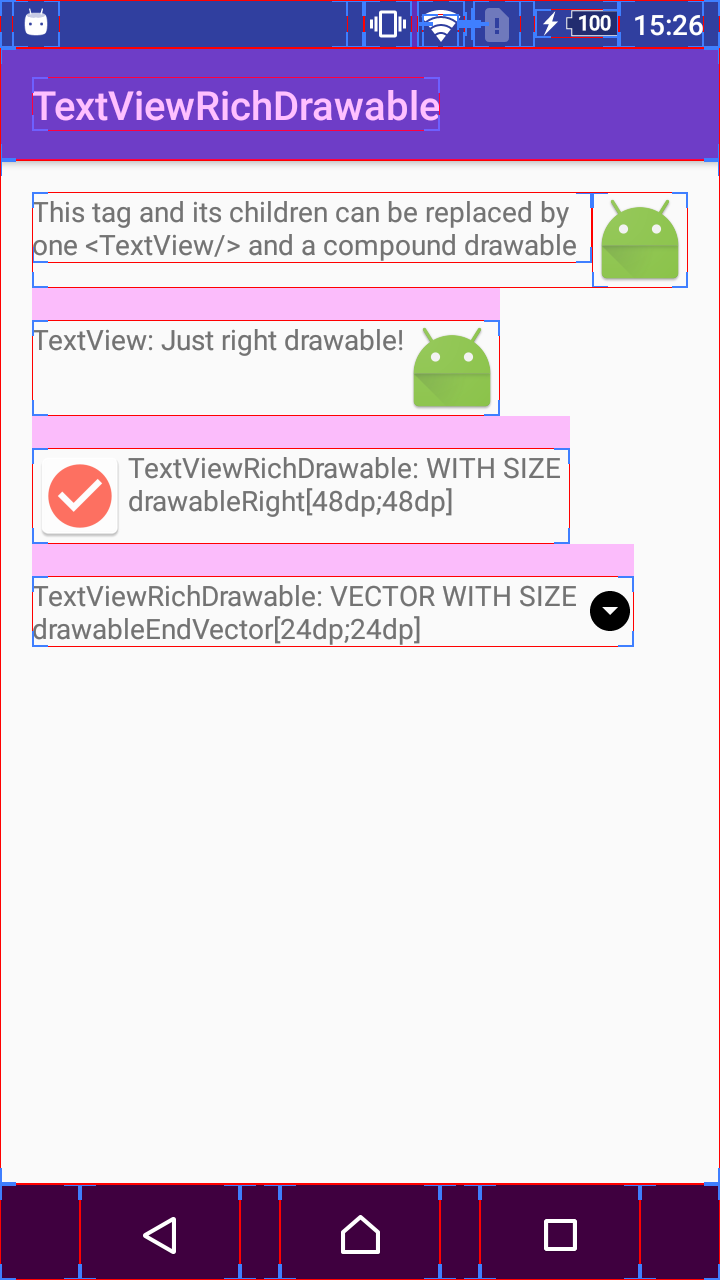
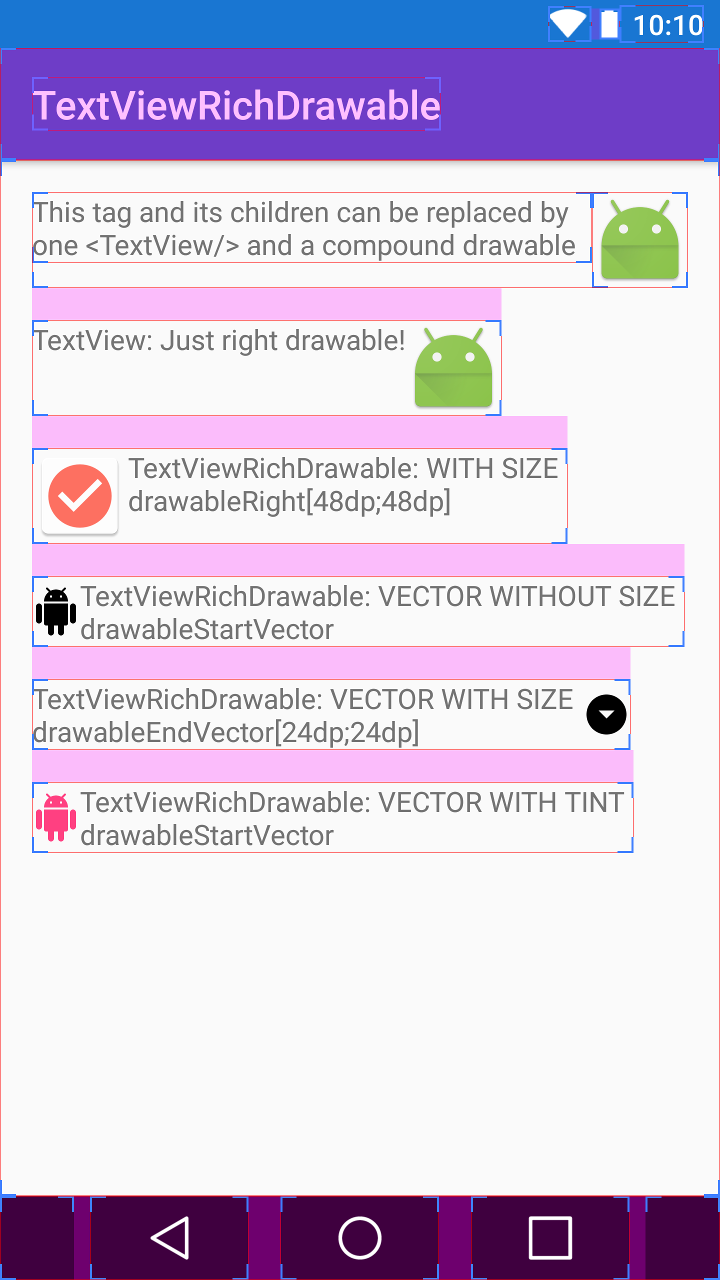
Prepare version 0.2.1

diff --git a/README.md b/README.md
@@ -1,6 +1,6 @@
 # TextViewRichDrawable [![Android Arsenal](https://img.shields.io/badge/Android%20Arsenal-TextViewRichDrawable-brightgreen.svg?style=flat)](https://android-arsenal.com/details/1/5002)
 
-This is a tiny library which empowers TextView's compound drawables with size specifying and vector support.
+This is a tiny library which empowers TextView's compound drawables with size specifying, vector support and tinting.
 
 This library is just an extension of Android's TextView.
 
@@ -16,7 +16,8 @@ This library is just an extension of Android's TextView.
         app:compoundDrawableHeight="24dp"
         app:compoundDrawableWidth="24dp"
         app:drawableTopVector="@drawable/some_vector_drawble"
-        app:drawableEndVector="@drawable/another_vector_drawable" />
+        app:drawableEndVector="@drawable/another_vector_drawable"
+        app:drawableTint="@color/colorAccent" />
 ```        
 
 * All customizable attributes:
@@ -29,6 +30,7 @@ This library is just an extension of Android's TextView.
         <attr name="drawableTopVector" format="reference" />
         <attr name="drawableEndVector" format="reference" />
         <attr name="drawableBottomVector" format="reference" />
+        <attr name="drawableTint" format="reference" />
     </declare-styleable>
 ```
 
